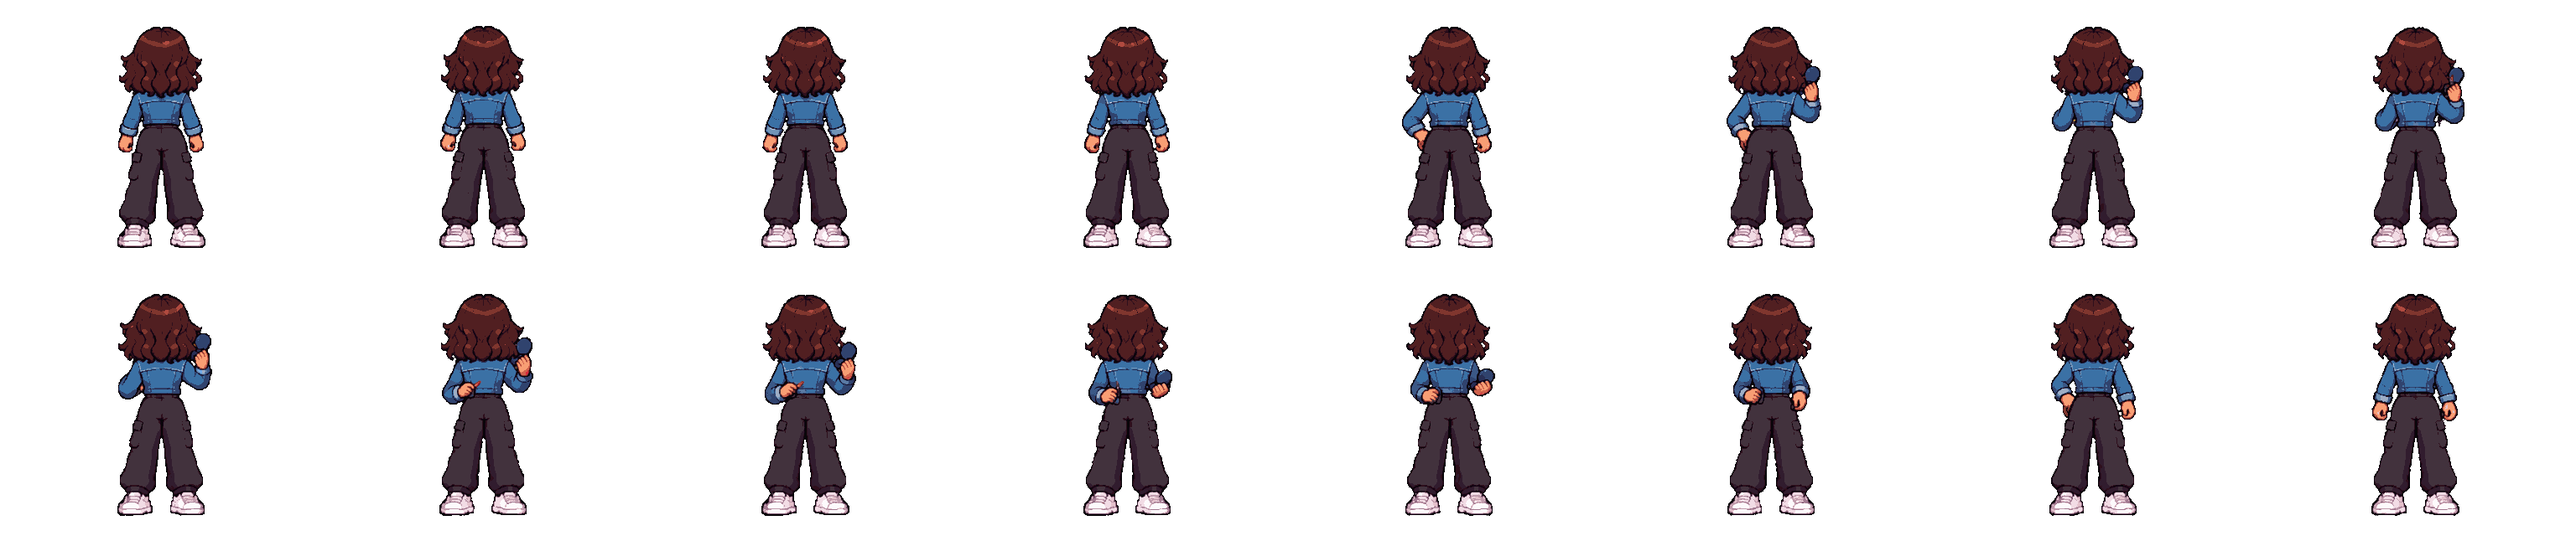
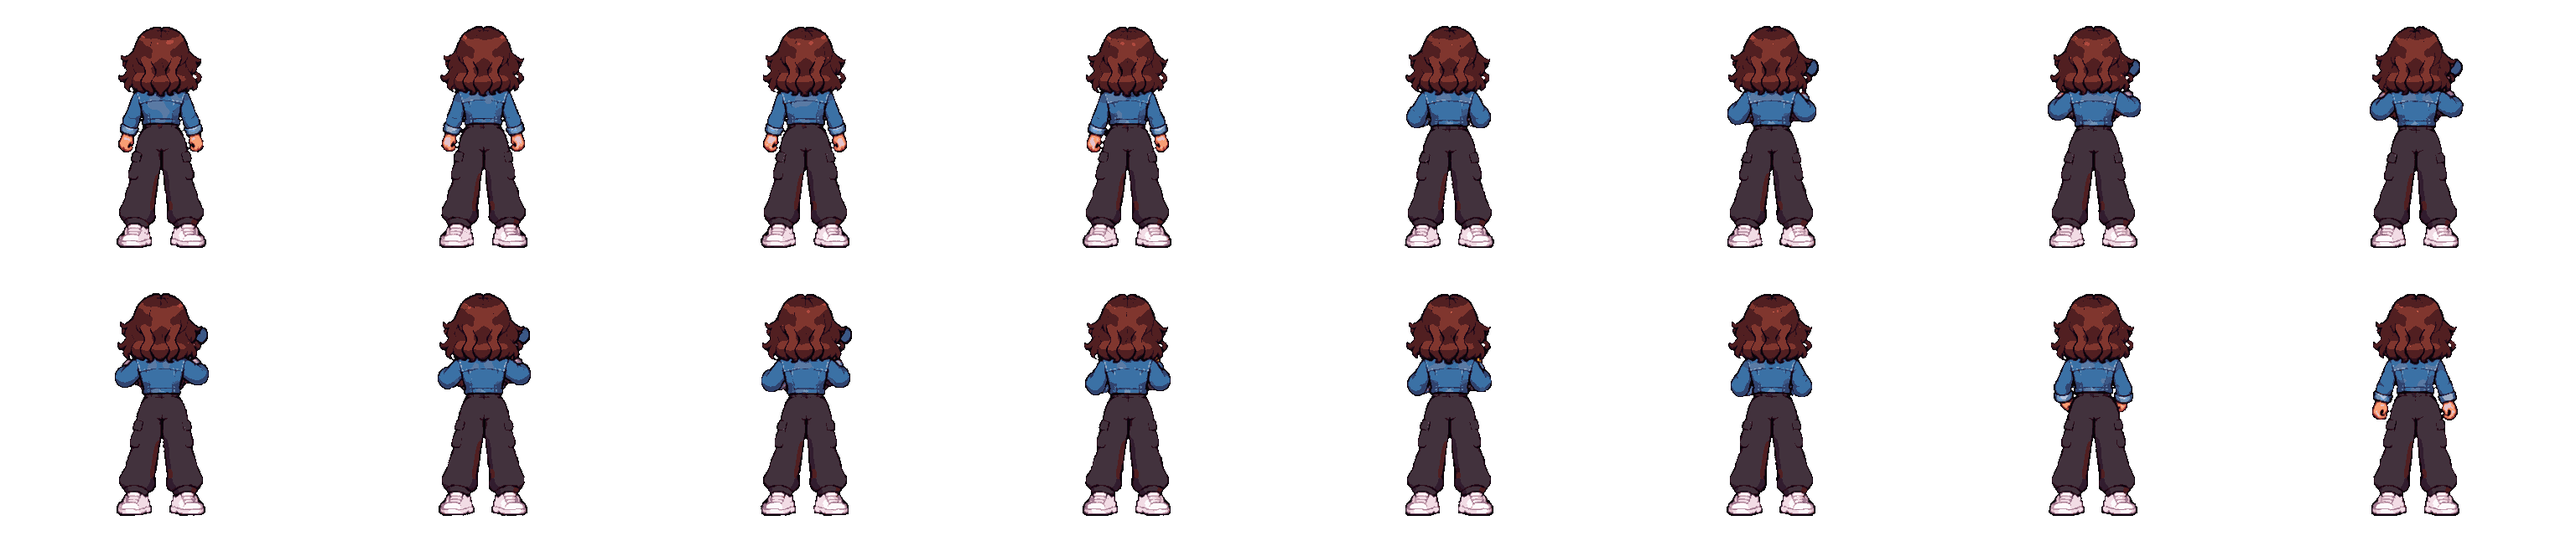
Zee back makeup redrawn: hands stay in front of her, only elbows show from behind (no arms twisted behind her back)

diff --git a/src/main.js b/src/main.js
@@ -1,14 +1,14 @@
 // Game shell: loads Zee, runs the loop, draws the placeholder office + HUD, wires pause / touch UI.
-import { CONFIG } from './config.js?v=202611271802';
-import { loadCharacter, VERSION, LOOK, setLight } from './assets.js?v=202611271802';
-import { Input } from './input.js?v=202611271802';
-import { Zee } from './zee.js?v=202611271802';
-import { Game } from './game.js?v=202611271802';
-import { ENEMY_IDS } from './enemy.js?v=202611271802';
-import { drawHud as drawArcadeHud } from './hud.js?v=202611271802';
-import { Level, qualityDepartment } from './level.js?v=202611271802';
-import { Camera } from './camera.js?v=202611271802';
-import { unlock } from './sfx.js?v=202611271802';
+import { CONFIG } from './config.js?v=202611271809';
+import { loadCharacter, VERSION, LOOK, setLight } from './assets.js?v=202611271809';
+import { Input } from './input.js?v=202611271809';
+import { Zee } from './zee.js?v=202611271809';
+import { Game } from './game.js?v=202611271809';
+import { ENEMY_IDS } from './enemy.js?v=202611271809';
+import { drawHud as drawArcadeHud } from './hud.js?v=202611271809';
+import { Level, qualityDepartment } from './level.js?v=202611271809';
+import { Camera } from './camera.js?v=202611271809';
+import { unlock } from './sfx.js?v=202611271809';
 
 const { w: W, h: H } = CONFIG.view;
 const canvas = document.getElementById('game');

diff --git a/src/level.js b/src/level.js
@@ -20,8 +20,8 @@
 //   light: { rim, rimAlpha, rimPx, lightX, lightY, wash, washAlpha, feet } = how Zee and the enemies are lit in this room
 //   (rim / wash are [r,g,b]); the game eases from one room's light to the next (see setLight in assets.js).
 //   doorRight is the door to the NEXT room: while it is locked the player cannot pass it; no door (or unlocked) = open.
-import { CONFIG } from './config.js?v=202611271802';
-import { VERSION } from './assets.js?v=202611271802';
+import { CONFIG } from './config.js?v=202611271809';
+import { VERSION } from './assets.js?v=202611271809';
 
 const C = CONFIG.camera, F = CONFIG.floor;
 export const LAYER_H = 507;                       // layer height in pixels (the view shows 506.25)

diff --git a/src/game.js b/src/game.js
@@ -1,9 +1,9 @@
 // Game world: Zee + enemies, combat resolution, projectiles and all the "juice" (hit flash, sparks, shake, hit-stop, sound).
-import { CONFIG } from './config.js?v=202611271802';
-import { Enemy } from './enemy.js?v=202611271802';
-import { SOFT } from './zee.js?v=202611271802';
-import { sfx } from './sfx.js?v=202611271802';
-import { drawAnim } from './assets.js?v=202611271802';
+import { CONFIG } from './config.js?v=202611271809';
+import { Enemy } from './enemy.js?v=202611271809';
+import { SOFT } from './zee.js?v=202611271809';
+import { sfx } from './sfx.js?v=202611271809';
+import { drawAnim } from './assets.js?v=202611271809';
 
 const E = CONFIG.enemy;
 

diff --git a/src/enemy.js b/src/enemy.js
@@ -1,8 +1,8 @@
 // Enemy: a fighter with a small brain. It lines up with Zee, flanks, chains combos, sidesteps her swings, punishes her recovery,
 // throws call-centre headsets, and (navy + sporty, the "heavies") grabs and throws her.
 // Art comes from assets/characters/<id>/ ; every enemy shares this one brain.
-import { CONFIG } from './config.js?v=202611271802';
-import { frameAt, drawAnim, drawShadow, LOOK } from './assets.js?v=202611271802';
+import { CONFIG } from './config.js?v=202611271809';
+import { frameAt, drawAnim, drawShadow, LOOK } from './assets.js?v=202611271809';
 
 const E = CONFIG.enemy;
 const rnd = (a, b) => a + Math.random() * (b - a);

diff --git a/src/hud.js b/src/hud.js
@@ -1,8 +1,8 @@
 // Arcade HUD (early-2000s style): angled panels with white outlines, glossy bars, bold italic type.
 // Built from separate pieces drawn in game units, so it scales with the canvas at any resolution.
 // Top-left: portrait + HP bar + SP meter. Bottom-left: KO counter. All values come from the live game state.
-import { CONFIG } from './config.js?v=202611271802';
-import { VERSION } from './assets.js?v=202611271802';
+import { CONFIG } from './config.js?v=202611271809';
+import { VERSION } from './assets.js?v=202611271809';
 
 const portrait = new Image();
 portrait.src = 'assets/ui/zee_portrait.png?v=' + VERSION;

diff --git a/src/zee.js b/src/zee.js
@@ -1,7 +1,7 @@
 // Zee: the player character. A small state machine driven by input actions.
 // Movement, combat timing, and animation selection live here; art comes from the manifest (assets.js).
-import { CONFIG } from './config.js?v=202611271802';
-import { frameAt, drawAnim, drawShadow, LOOK } from './assets.js?v=202611271802';
+import { CONFIG } from './config.js?v=202611271809';
+import { frameAt, drawAnim, drawShadow, LOOK } from './assets.js?v=202611271809';
 
 const C = CONFIG.zee;
 // Front and back sheets are drawn as seen by the camera, so they are never mirrored (her badge and hand stay on the correct side).

diff --git a/src/camera.js b/src/camera.js
@@ -1,7 +1,7 @@
 // The world camera. The world is drawn through a zoomed-out camera (CONFIG.camera.zoom, about 0.71): 900 x 506 world units
 // are visible and rendered into the 640 x 360 screen. The camera follows Zee horizontally (with a little look-ahead in the
 // direction she faces) and is clamped to the level. It never scrolls vertically: the world is exactly one screen tall.
-import { CONFIG } from './config.js?v=202611271802';
+import { CONFIG } from './config.js?v=202611271809';
 
 export class Camera {
   constructor() { this.x = 0; this.px = 0; this.gx = 0; this.look = 0; this.ready = false; }

diff --git a/src/assets.js b/src/assets.js
@@ -1,6 +1,6 @@
 // Loads a character's manifest + strips and turns them into ready-to-play animation objects.
 // To swap art, replace the PNG strips / manifest in assets/characters/<name>/ - no code changes needed.
-import { CONFIG } from './config.js?v=202611271802';
+import { CONFIG } from './config.js?v=202611271809';
 
 // Release stamp, taken from this module's own URL (?v=...): every release uses new URLs so browsers never serve stale files.
 export const VERSION = new URL(import.meta.url).searchParams.get('v') || 'dev';

diff --git a/index.html b/index.html
@@ -93,7 +93,7 @@
 <div id="rotate"><div><h2>Rotate your phone</h2><p style="color:var(--mute)">This game plays in landscape.</p></div></div>
 <div id="loading"><div><div class="lt">CALL TERMINATED</div><div class="ls">is loading...</div></div></div>
 
-<script type="module" src="src/main.js?v=202611271802"></script>
+<script type="module" src="src/main.js?v=202611271809"></script>
 </body>
 </html>
 

diff --git a/src/input.js b/src/input.js
@@ -1,6 +1,6 @@
 // Unified input: keyboard on PC/laptop, floating joystick + buttons on touch devices.
 // The game only reads: input.axis (x,y in -1..1), input.run, and input.consume() (one-shot actions).
-import { CONFIG } from './config.js?v=202611271802';
+import { CONFIG } from './config.js?v=202611271809';
 
 export class Input {
   constructor(root = document) {

diff --git a/HANDOFF.md b/HANDOFF.md
@@ -70,6 +70,6 @@ zee.view = side/front/back (zee.js _dir() falls back to the side animation when 
 Masters: sprites/zee/master/zee_master_front_v1.png, _back_v1.png. All 10 moves exist front and back (idle, idle_makeup, walk, run, jump, punch_1-3, jump_kick, dodge); raw sheets sprites/zee/raw/<move>_front_v1.png / _back_v1.png, sizes in tools/zee-views.json (matched to the side view by hair size and height). Special, hurt, knockdown, get up, victory, interact and prone stay side view. Front/back attacks hit along the floor depth (game.js _zeeAttacks). Enemies get four directions later, when the user asks.
 
 ## Zee redo (2026-11-27)
-- Idle + makeup idle (all views) come from ONE drawing per view: sprites/zee/raw/idlemk_side_v1.png, idlemk_front_v1.png, idlemk_back_v1.png (16 frames: row 1 = idle breathing loop -> anim idle 0-3; rows 2-4 = makeup -> anim idle_makeup 4-15, ending in the idle pose). Same size and look by construction. The separate idle/makeup sheets and makeup-from-idle.ps1 are gone.
+- Idle + makeup idle (all views) come from ONE drawing per view: sprites/zee/raw/idlemk_side_v1.png, idlemk_front_v1.png, idlemk_back_v2.png (16 frames: row 1 = idle breathing loop -> anim idle 0-3; rows 2-4 = makeup -> anim idle_makeup 4-15, ending in the idle pose). Same size and look by construction. The separate idle/makeup sheets and makeup-from-idle.ps1 are gone.
 - dodge_front_v2: a real floor somersault toward the camera.
 - Front/back punches use both hands: punch_1 = left jab, punch_2 = right cross, punch_3 = two-fisted double punch (punch_*_front_v2 / _back_v2). Sizes in tools/zee-views.json.
